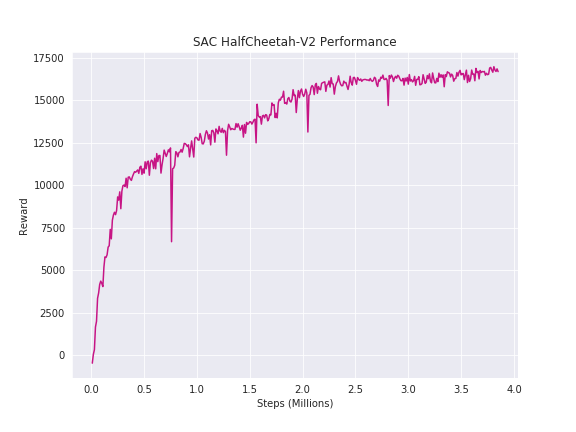
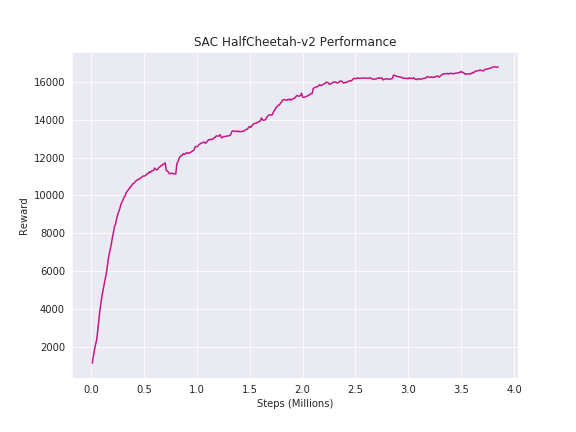
update readme, add new graphs and gifs

diff --git a/README.md b/README.md
@@ -13,8 +13,10 @@ for default args. Changeable args are:
 --env: String of environment name (Default: HalfCheetah-v2)
 --seed: Int of seed (Default: 100)
 --use_obs_filter: Boolean that is true when used (seems to degrade performance)
---update_every_n_steps: Int of how many env steps we take before optimizing the agent (Default: 1)
+--update_every_n_steps: Int of how many env steps we take before optimizing the agent (Default: 1, ratio of steps v.s. backprop is tied to 1:1)
 --n_random_actions: Int of how many random steps we take to 'seed' the replay pool (Default: 10000)
+--n_collect_steps: Int of how steps we collect before training  (Default: 1000)
+--n_evals: Int of how many episodes we run an evaluation for (Default: 1)
 --save_model: Boolean that is true when used (saves model when GIFs are made, loading and running is left as an exercise for the reader (or until I get around to it))
 ```
 
@@ -23,3 +25,15 @@ for default args. Changeable args are:
 Gets the insane HalfCheetah result, tops out around 17,000:
 
 ![example](./assets/HalfCheetah.png)
+
+And Here's a GIF of HalfCheetah-v2:
+
+![example](./assets/HalfCheetah-v2_2300000-small.gif)
+
+Hopper one seed (doesn't match paper unfortunately):
+
+![example](./assets/Hopper.png)
+
+And Here's a GIF of Hopper-v2:
+
+![example](./assets/Hopper-v2_1467651-small.gif)
